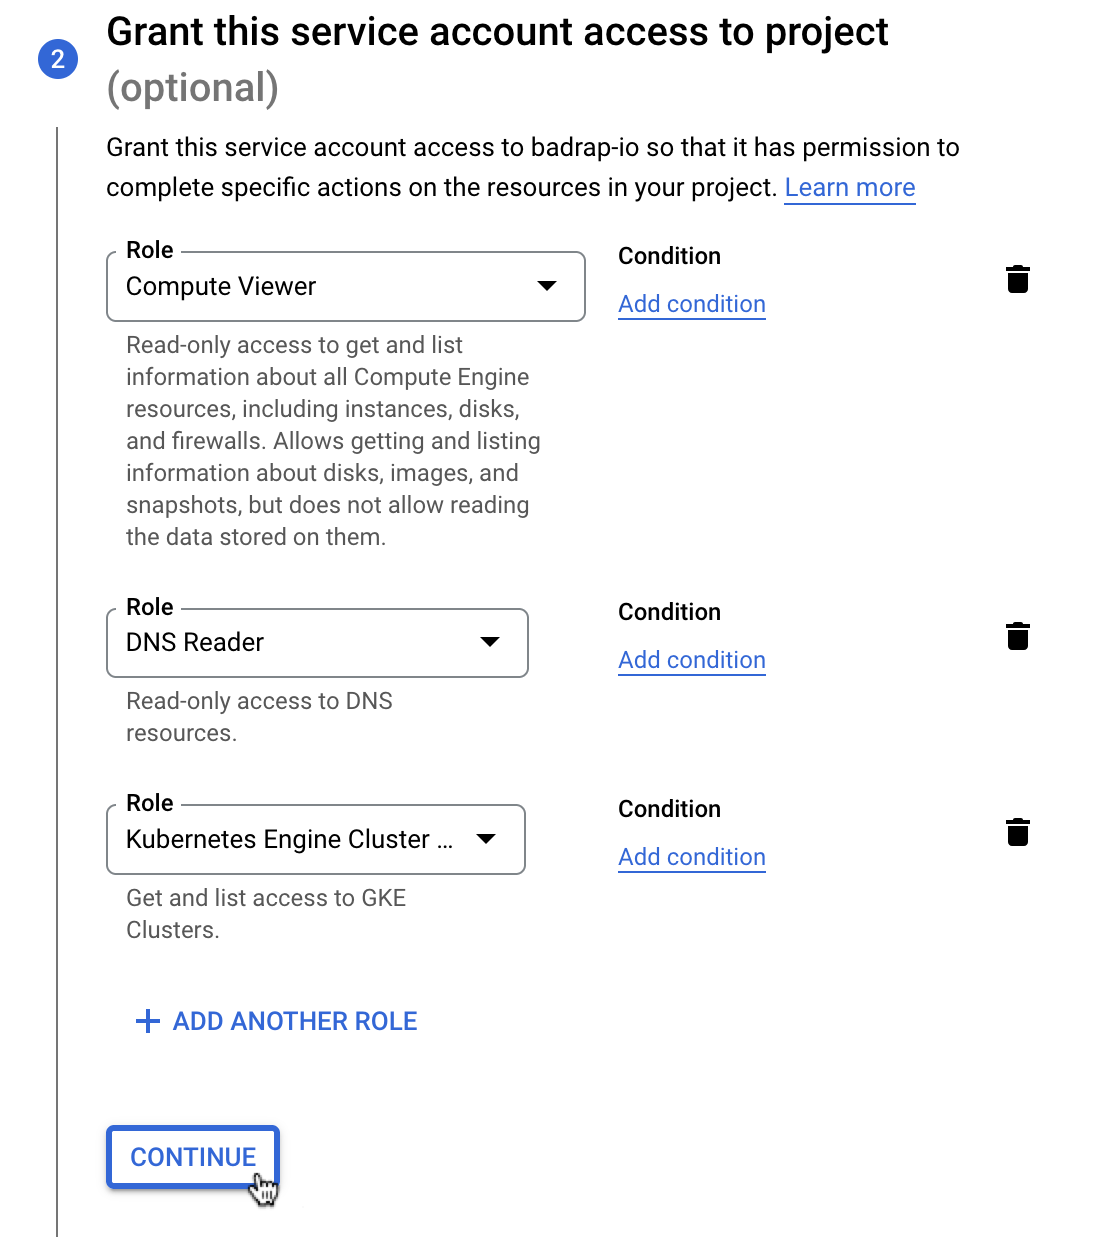
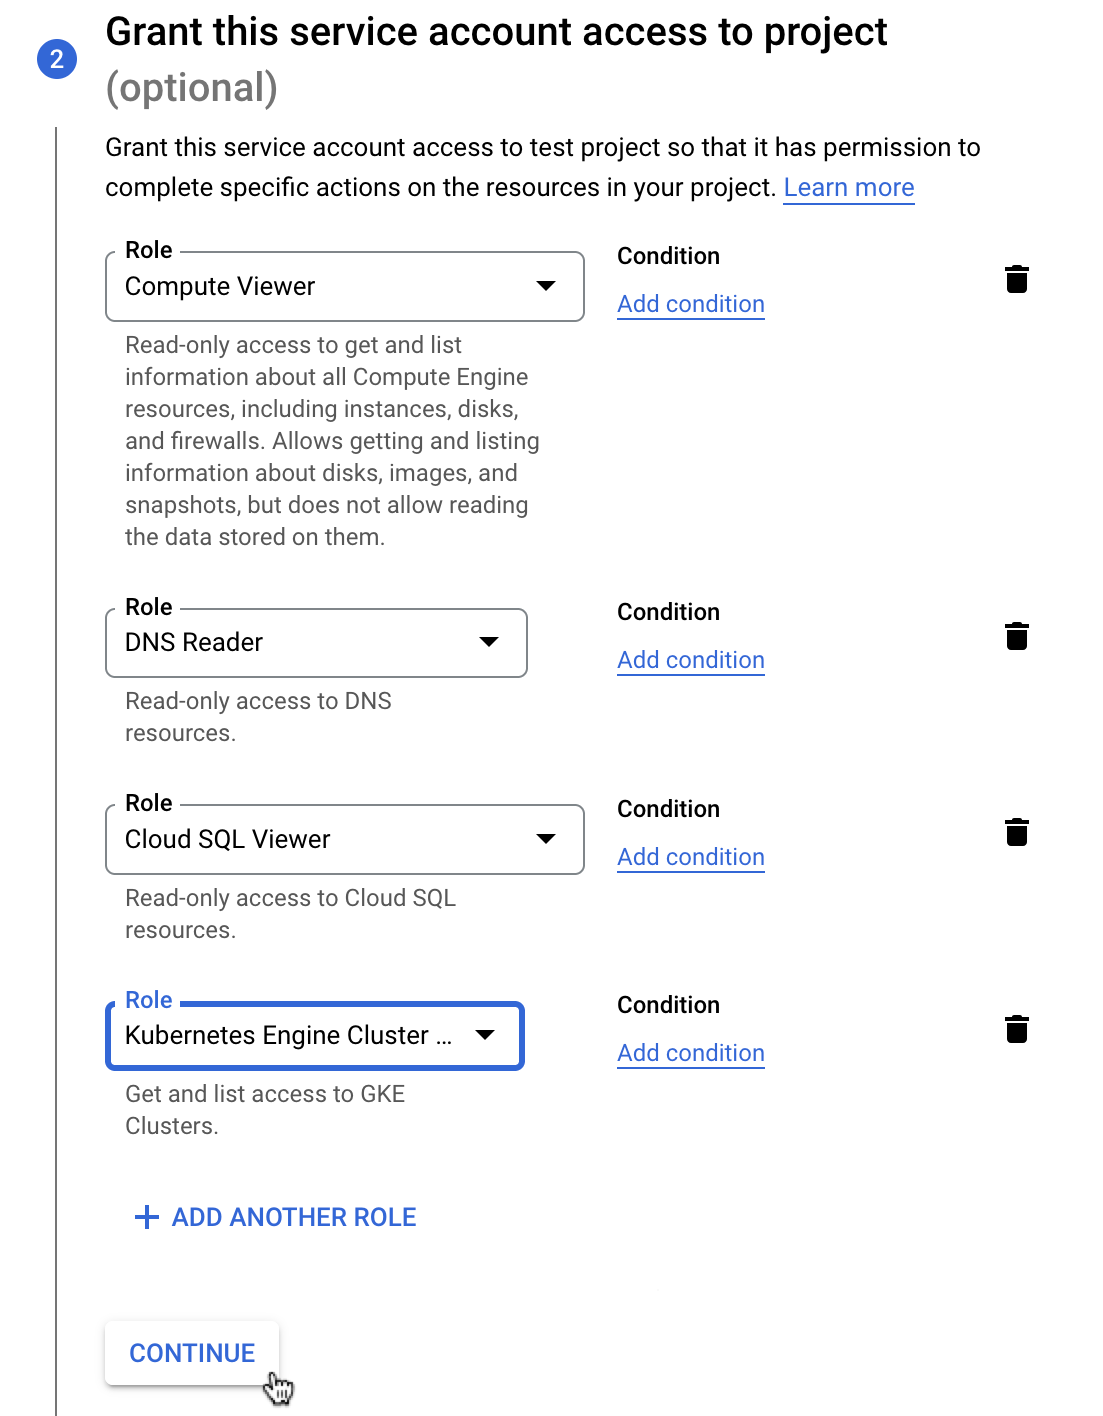
Document GCP app's Cloud SQL support

diff --git a/docs/apps/gcp.md b/docs/apps/gcp.md
@@ -6,6 +6,7 @@ First, the owner of your organization's GCP project(s) creates a service account
 
 - public IP-addresses from your GCP installation
 - domain names, if GCP also hosts your DNS
+- public IP-addresses of your Google Cloud SQL instances
 - public IP-addresses of your Google Kubernetes Engine clusters' control planes
 
 ## I am the owner of the GCP project
@@ -30,6 +31,7 @@ Create a service account with limited access:
 
 5. On the _Service account permissions_ area, select the role _Compute Viewer_.
    - Click **Add another role** and add the _DNS Reader_ role.
+   - Click **Add another role** and add the _Cloud SQL Viewer_ role.
    - Click **Add another role** and add the _Kubernetes Engine Cluster Viewer_ role.
    - Click the **Continue** button.
 
